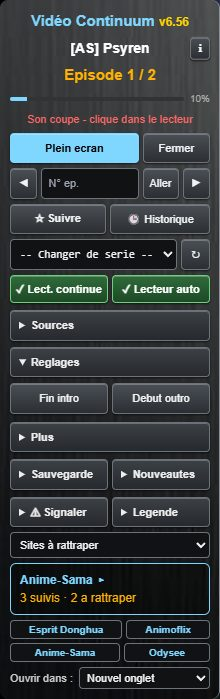
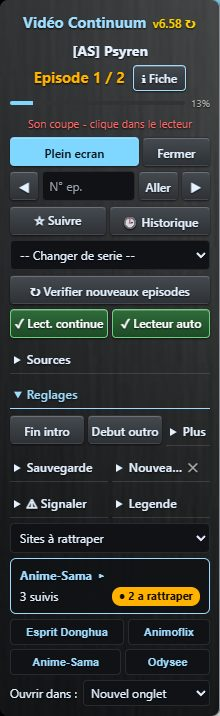
v6.58 : lisibilite (Segoe UI 12 px, titres de sections, plaques pleines, textures adoucies, verre fume, etats icone+mot, focus, cibles 24 px, panneau discret)
Corrige aussi le bouton principal sans accent dans les themes (regression 6.57).

diff --git a/esprit-donghua-suivi-progression-v6.user.js b/esprit-donghua-suivi-progression-v6.user.js
@@ -1,7 +1,7 @@
 // ==UserScript==
 // @name         Anime Tracker Continuum (v6)
 // @namespace    esprit-donghua-tracker-v6
-// @version      6.57
+// @version      6.58
 // @description  Suite de esprit-donghua-suivi-progression-v4 (v4 restait limite a esprit-donghua.xyz/Odysee) : meme principe (calque plein ecran, jamais recharge, iframe du lecteur natif pilotee par un second script injecte) mais etendu a 4 familles de sites - esprit-donghua.xyz (Odysee), animoflix.to (video.sibnet.ru), anime-sama.to (video.sibnet.ru) et odysee.com en navigation directe (playlist reconstruite via l'API publique Odysee) - avec UNE seule liste de suivi, groupee par site. Script independant de v4 (storage isole) : le fichier v4.36 reste intact sur le disque mais doit etre DESACTIVE dans Tampermonkey pour eviter un doublon de calque sur esprit-donghua.xyz.
 // @match        https://esprit-donghua.xyz/*
 // @match        https://odysee.com/*
@@ -2051,7 +2051,7 @@
         // sites ajoutes, reprises, liens AniList + preferences. Pas les caches.
         const BACKUP_SETTINGS = ['excludedSeries', 'seasonDone', 'newSeasons', 'seasonDismissed', 'introOutro', 'customSites',
             'youtubeChannelAssociations', 'youtubeMode', 'youtubeOverrides', 'resumePositions', 'aniLinks'];
-        const BACKUP_PREFS = ['autoNextEnabled', 'popupAutoOpen', 'openMode', 'panelSiteFilter2', 'aniskipShown', 'theme'];
+        const BACKUP_PREFS = ['autoNextEnabled', 'popupAutoOpen', 'openMode', 'panelSiteFilter2', 'aniskipShown', 'theme', 'panelAutoHide'];
         function collectBackupSettings() {
             const out = {};
             BACKUP_SETTINGS.concat(BACKUP_PREFS).forEach((k) => { const v = GM_getValue(k, undefined); if (v !== undefined) out[k] = v; });
@@ -2212,7 +2212,7 @@
             st.textContent = '.vc-track{position:relative;display:block;text-align:center;padding:5px 4px;border-radius:4px;font-size:11px;font-weight:bold;cursor:pointer;background:#333;color:#ddd;border:1px solid #555;}' +
                 '.vc-track.vc-small{flex:1;white-space:nowrap;}.vc-pair>.vc-track{flex:1;min-width:0;}' +
                 '.vc-trio{display:flex;flex-wrap:wrap;gap:4px;}.vc-trio>button{flex:1;min-width:0;padding:6px 2px!important;}.vc-trio>details{flex:0 0 auto;}.vc-trio>details[open]{flex-basis:100%;order:1;}' +
-                '.vc-grp{font-size:10px;font-weight:bold;letter-spacing:.08em;text-transform:uppercase;color:#8a8a99;margin-top:2px;}' +
+                '.vc-grp{font-size:10px;font-weight:bold;letter-spacing:.08em;text-transform:uppercase;color:#8a8a99;margin-top:8px;}' +
                 '.vc-ver{background:none!important;border:none!important;box-shadow:none!important;color:#ffd400!important;font:bold 12px Arial,sans-serif;cursor:pointer;padding:0;}.vc-ver:hover{text-decoration:underline;}' +
                 '.vc-th-host>*{flex-shrink:0;}details[data-sec="nouveautes"]>summary{position:relative;padding-right:22px!important;}.vc-news-x{position:absolute;right:5px;top:50%;transform:translateY(-50%);padding:0 3px;color:#aaa;cursor:pointer;}.vc-news-x:hover,.vc-news-x:focus-visible{color:#fff;}' +
                 '.vc-pair{display:flex;flex-wrap:wrap;gap:4px;}.vc-pair>details{flex:1 1 40%;min-width:0;}.vc-pair>details[open]{flex-basis:100%;order:1;}.vc-pair>button{flex:1;min-width:0;padding:6px 2px;white-space:nowrap;overflow:hidden;text-overflow:ellipsis;}' +
@@ -2228,49 +2228,72 @@
         // fonction (pas de const) : ensureVcStyles peut tourner avant cette ligne.
         function themes() { return {
             actuel: { label: 'Actuel' },
+            // v6.58 (dossier lisibilite) : plaques opaques sans liseré (bline transparent), accent texte desature (acct),
+            // dim = titres de sections (niveau 3), card = plaque des cartes de sites.
             metal: { label: 'Metallique', tex: ['vcMetal', 'metal.jpg'], v: {
-                text: '#e4f1ff', acc: '#7fd6ff', onacc: '#000', btn: 'linear-gradient(#4a4f55,#2b2f33)', bline: '#6d737a',
-                bsh: 'inset 0 1px 0 rgba(255,255,255,.25),0 1px 2px rgba(0,0,0,.6)', sec: 'linear-gradient(#3c4146,#26292d)', field: '#101214',
-                card: 'rgba(0,0,0,.35)', on: 'linear-gradient(#2f6b3a,#1d4a26)', onl: '#6fcf7f', edge: '#8a9097',
+                text: '#e4f1ff', dim: '#a9b8c6', acc: '#7fd6ff', acct: '#9fdcff', onacc: '#06121a', btn: 'linear-gradient(#454a50,#2e3236)', bline: 'transparent',
+                bsh: 'inset 0 1px 0 rgba(255,255,255,.22),0 1px 2px rgba(0,0,0,.6)', field: '#101216', card: 'rgba(16,18,20,.94)',
+                on: 'linear-gradient(#2f6b3a,#1d4a26)', onl: '#6fcf7f', edge: '#8a9097',
                 bg: 'linear-gradient(90deg,rgba(15,17,19,.55),rgba(15,17,19,.35)),var(--vc-tex,none) center/cover,#2a2d30' } },
             carbone: { label: 'Fibre de carbone', v: {
-                text: '#f6e4e2', acc: '#b71c1c', acct: '#ef5350', onacc: '#fff', btn: '#1b1d20', bline: '#2c2f33', bsh: 'inset 0 1px 0 rgba(255,255,255,.06)',
-                sec: '#232529', field: '#0a0a0b', card: 'rgba(183,28,28,.10)', on: '#3a1412', onl: '#c62828', edge: '#000',
+                text: '#f6e4e2', dim: '#b9a9a7', acc: '#b71c1c', acct: '#ef7a70', onacc: '#fff', btn: '#1d1f23', bline: 'transparent', bsh: 'inset 0 1px 0 rgba(255,255,255,.06)',
+                field: '#101114', card: 'rgba(22,22,24,.94)', on: '#3a1412', onl: '#c62828', edge: '#000',
                 bg: 'linear-gradient(27deg,#151515 5px,transparent 5px) 0 5px/20px 20px,linear-gradient(207deg,#151515 5px,transparent 5px) 10px 0/20px 20px,' +
                     'linear-gradient(27deg,#222 5px,transparent 5px) 0 10px/20px 20px,linear-gradient(207deg,#222 5px,transparent 5px) 10px 5px/20px 20px,' +
                     'linear-gradient(90deg,#1b1b1b 10px,transparent 10px) 0 0/20px 20px,linear-gradient(#1d1d1d 25%,#1a1a1a 25%,#1a1a1a 50%,transparent 50%,transparent 75%,#242424 75%,#242424) 0 0/20px 20px,#131313' } },
+            // verre fume : 3,0:1 -> au-dessus de 4,5:1 sur scene claire (teinte 30 % -> 62 %)
             verre: { label: 'Verre trempe', glass: true, v: {
-                text: '#fff', acc: '#7ee0ff', onacc: '#000', btn: 'rgba(255,255,255,.10)', bline: 'rgba(255,255,255,.22)', bsh: 'inset 0 1px 0 rgba(255,255,255,.25)',
-                sec: 'rgba(255,255,255,.14)', field: 'rgba(0,0,0,.35)', card: 'rgba(255,255,255,.08)', on: 'rgba(76,175,80,.35)', onl: 'rgba(140,230,150,.8)',
-                edge: 'rgba(255,255,255,.35)', bg: 'linear-gradient(160deg,rgba(255,255,255,.16),rgba(255,255,255,.04) 40%,rgba(255,255,255,.10)),rgba(20,30,40,.30)' } },
+                text: '#fff', dim: '#c9d6e2', acc: '#7ee0ff', acct: '#9fe6ff', onacc: '#06121a', btn: 'rgba(255,255,255,.12)', bline: 'transparent', bsh: 'inset 0 1px 0 rgba(255,255,255,.18)',
+                field: 'rgba(0,0,0,.45)', card: 'rgba(8,12,18,.55)', on: 'rgba(76,175,80,.45)', onl: 'rgba(140,230,150,.85)',
+                edge: 'rgba(255,255,255,.3)', bg: 'linear-gradient(160deg,rgba(255,255,255,.08),rgba(255,255,255,.02) 40%,rgba(255,255,255,.05)),rgba(12,18,26,.62)' } },
             'pierre-noire': { label: 'Pierre noire', tex: ['vcPierreNoire', 'pierre-noire.jpg'], v: {
-                text: '#f5e7c6', acc: '#d6a849', onacc: '#000', btn: 'rgba(28,26,24,.88)', bline: 'rgba(214,168,73,.35)', bsh: 'inset 0 1px 0 rgba(255,255,255,.05)',
-                sec: 'rgba(38,34,30,.9)', field: 'rgba(0,0,0,.6)', card: 'rgba(214,168,73,.08)', on: 'rgba(214,168,73,.18)', onl: '#d6a849', edge: '#3a332a',
-                bg: 'linear-gradient(rgba(10,10,10,.45),rgba(10,10,10,.45)),var(--vc-tex,none) center/cover,#1a1918' } },
+                text: '#f5e7c6', dim: '#c9b892', acc: '#d6a849', acct: '#ddb86a', onacc: '#140f05', btn: 'rgba(30,28,25,.95)', bline: 'transparent', bsh: 'inset 0 1px 0 rgba(255,255,255,.05)',
+                field: 'rgba(12,11,10,.95)', card: 'rgba(24,22,20,.94)', on: 'rgba(214,168,73,.22)', onl: '#d6a849', edge: '#3a332a',
+                bg: 'linear-gradient(rgba(10,10,10,.4),rgba(10,10,10,.4)),var(--vc-tex,none) center/cover,#1a1918' } },
             'pierre-bleue': { label: 'Pierre bleue', tex: ['vcPierreBleue', 'pierre-bleue.jpg'], v: {
-                text: '#d6f5fb', acc: '#3cc8e0', onacc: '#000', btn: 'rgba(14,30,38,.85)', bline: 'rgba(60,200,224,.35)', bsh: 'inset 0 1px 0 rgba(255,255,255,.06)',
-                sec: 'rgba(20,42,52,.9)', field: 'rgba(0,8,12,.65)', card: 'rgba(0,0,0,.6)', on: 'rgba(60,200,224,.18)', onl: '#3cc8e0', edge: '#1d3a46',
-                bg: 'linear-gradient(rgba(5,14,18,.6),rgba(5,14,18,.6)),var(--vc-tex,none) center/cover,#0d1a20' } },
+                text: '#d6f5fb', dim: '#9fc6cf', acc: '#3cc8e0', acct: '#7fd5e2', onacc: '#04161b', btn: 'rgba(14,30,38,.95)', bline: 'transparent', bsh: 'inset 0 1px 0 rgba(255,255,255,.06)',
+                field: 'rgba(6,14,18,.95)', card: 'rgba(6,14,18,.94)', on: 'rgba(60,200,224,.22)', onl: '#3cc8e0', edge: '#1d3a46',
+                bg: 'linear-gradient(rgba(5,14,18,.45),rgba(5,14,18,.45)),var(--vc-tex,none) center/cover,#0d1a20' } },
         }; }
         function themeCss() {
-            const T = '.vc-thm';
-            return Object.keys(themes()).filter((k) => themes()[k].v).map((k) => '.vc-th-' + k + '{' +
+            const H = '.vc-th-host', T = '.vc-thm';
+            // Regles communes a tous les themes, Actuel compris (pistes 01, 05, 08, 09, 10).
+            const common =
+                H + '{font-family:"Segoe UI",system-ui,Arial,sans-serif!important;}' +
+                H + ' button,' + H + ' summary,' + H + ' select,' + H + ' input,' + H + ' textarea,' + H + ' label{font-family:inherit!important;font-size:12px!important;}' +
+                H + ' button,' + H + ' summary,' + H + ' .vc-track{font-weight:600!important;}' +
+                H + ' button:not(.vc-ver):not(#ed-info-btn):not(#ep-info-btn),' + H + ' .vc-track{height:29px;box-sizing:border-box;}' +
+                H + ' .vc-track{line-height:17px;}' +
+                H + ' summary{background:transparent!important;border:none!important;border-bottom:1px solid rgba(255,255,255,.14)!important;border-radius:0!important;box-shadow:none!important;' +
+                    'letter-spacing:.02em;color:#a3a9b5!important;padding:6px 4px!important;line-height:16px;height:29px;box-sizing:border-box;}' +
+                H + ' details[open]>summary{color:#fff!important;border-bottom-color:rgba(255,255,255,.4)!important;}' +
+                H + ' select,' + H + ' input[type=number],' + H + ' textarea{background:#101216!important;color:#ececec!important;border:1px solid #2a2e36!important;}' +
+                H + ' button[style*="color:#fff"]:not(.vc-ver){color:#ececec!important;}' +
+                H + ' .vc-open-link{font-size:11px!important;padding:6px 4px!important;}' +
+                '#ed-info-btn,#ep-info-btn{min-height:24px;}.vc-ver{padding:5px 2px!important;}.vc-news-x{padding:5px 7px!important;}' +
+                H + ' :focus-visible,' + H + ' .vc-track:has(input:focus-visible){outline:2px solid #fff!important;outline-offset:1px!important;box-shadow:0 0 0 4px rgba(0,0,0,.85)!important;}' +
+                '.vc-th-actuel [style*="color:#03d0fc"]{color:#5fd3ec!important;}' +
+                '#ed-topbar{transition:opacity .4s;}#ed-topbar.vc-faded:not(:hover):not(:focus-within){opacity:.12;}' +
+                '@media (prefers-reduced-motion:reduce){#ed-topbar{transition:none;}}';
+            return common + Object.keys(themes()).filter((k) => themes()[k].v).map((k) => '.vc-th-' + k + '{' +
                 Object.keys(themes()[k].v).map((n) => '--vc-' + n + ':' + themes()[k].v[n] + ';').join('') + '}').join('') +
                 T + '{background:var(--vc-bg)!important;color:var(--vc-text)!important;box-shadow:inset -1px 0 0 var(--vc-edge),0 2px 8px rgba(0,0,0,.5)!important;}' +
-                '.vc-th-verre{backdrop-filter:blur(14px) saturate(1.3);-webkit-backdrop-filter:blur(14px) saturate(1.3);}' +
+                '.vc-th-verre{backdrop-filter:blur(14px) saturate(1.2);-webkit-backdrop-filter:blur(14px) saturate(1.2);}' +
+                '@media (prefers-reduced-transparency:reduce){.vc-th-verre{background:#141b24!important;backdrop-filter:none;-webkit-backdrop-filter:none;}}' +
                 T + ' button:not([id$="delete-btn"]):not(.vc-ver){background:var(--vc-btn)!important;color:var(--vc-text)!important;border:1px solid var(--vc-bline)!important;box-shadow:var(--vc-bsh)!important;}' +
-                T + ' button[style*="background:#03d0fc"]{background:var(--vc-acc)!important;color:var(--vc-onacc)!important;border-color:transparent!important;}' +
-                T + ' summary{background:var(--vc-sec)!important;border:1px solid var(--vc-bline);box-shadow:var(--vc-bsh);}' +
-                T + ' select,' + T + ' input[type=number],' + T + ' textarea{background:var(--vc-field)!important;color:var(--vc-text)!important;border:1px solid var(--vc-bline)!important;}' +
+                T + ' button[style*="background:#03d0fc"][style]:not(.vc-ver){background:var(--vc-acc)!important;color:var(--vc-onacc)!important;border-color:transparent!important;}' +
+                T + ' #ed-info-btn,' + T + ' #ep-info-btn{border-color:var(--vc-acct,var(--vc-acc))!important;}' +
+                T + ' select,' + T + ' input[type=number],' + T + ' textarea{background:var(--vc-field)!important;color:var(--vc-text)!important;border:1px solid rgba(255,255,255,.10)!important;}' +
                 T + ' .vc-track{background:var(--vc-btn)!important;color:var(--vc-text)!important;border-color:var(--vc-bline)!important;box-shadow:var(--vc-bsh);}' +
                 T + ' .vc-track:has(input:checked){background:var(--vc-on)!important;border-color:var(--vc-onl)!important;color:#fff!important;}' +
                 T + ' .ep-summary-line{background:var(--vc-card)!important;border-color:var(--vc-acct,var(--vc-acc))!important;}' +
                 T + ' [style*="color:#03d0fc"]{color:var(--vc-acct,var(--vc-acc))!important;}' +
                 T + ' [style*="background:#03d0fc"]:not(button){background:var(--vc-acc)!important;}' +
-                T + ' .vc-open-link{background:var(--vc-field)!important;border-color:var(--vc-bline)!important;}' +
-                T + ' summary,' + T + ' label,' + T + ' [style*="color:#fff"],' + T + ' [style*="color:#eee"],' + T + ' [style*="color:#ccc"]{color:var(--vc-text)!important;}' +
-                T + ',' + T + ' *{text-shadow:0 1px 2px rgba(0,0,0,.85);}' + T + ' button[style*="background:#03d0fc"]{text-shadow:none;}' +
-                T + ' button,' + T + ' select,' + T + ' label,' + T + ' .vc-grp{font-weight:bold;}' +
+                T + ' .vc-open-link{background:var(--vc-field)!important;border-color:rgba(255,255,255,.10)!important;}' +
+                T + ' label,' + T + ' [style*="color:#fff"],' + T + ' [style*="color:#eee"],' + T + ' [style*="color:#ccc"]{color:var(--vc-text)!important;}' +
+                T + ' summary{color:var(--vc-dim)!important;border-bottom-color:rgba(255,255,255,.12)!important;}' +
+                T + ' details[open]>summary{color:var(--vc-acct,var(--vc-acc))!important;border-bottom-color:var(--vc-acct,var(--vc-acc))!important;}' +
+                T + ',' + T + ' *{text-shadow:0 1px 2px rgba(0,0,0,.85);}' + T + ' button[style*="background:#03d0fc"],' + T + ' [style*="color:#1a1000"]{text-shadow:none;}' +
                 T + ' .vc-grp{color:var(--vc-acct,var(--vc-acc))!important;}' +
                 T + ' button.vc-ver{color:#ffd400!important;}';
         }
@@ -2370,6 +2393,7 @@
         // ---- Nouveautes (v6.18) : encart repliable, ouvert d'office tant
         // que la version installee n'a pas ete "vue" (ouverture de l'encart).
         const CHANGELOG = [
+            ['6.58', ['Lisibilite (12 pistes) : police Segoe UI 12 px demi-gras ; boutons sur plaques pleines et textures adoucies ; verre trempe fume (texte lisible sur scene claire) ; titres de sections en simples intitules ; couleurs d\'accent adoucies ; plus de noir ni de blanc purs.', 'Cartes des sites : etat avec icone et mot (● 2 a rattraper, ✓ a jour). Zones de clic d\'au moins 24 px, contour clavier visible sur tous les themes.', 'Option "Panneau discret en lecture" (Reglages > Plus > Affichage) : le panneau s\'efface apres 4 s sans souris et revient au survol.']],
             ['6.57', ['Retours de recette : nom de la serie sur 2 lignes si besoin, bouton "ℹ Fiche" sur la ligne de l\'episode, numero de version cliquable pour verifier les mises a jour.', '"↻ Verifier les nouveaux episodes" de nouveau sur une ligne entiere ; Reglages : Fin intro | Debut outro | Plus, et Plus range en 3 groupes (Intro / outro, Affichage, Page).', 'Croix ✕ sur Nouveautes pour la masquer jusqu\'a la prochaine version.', 'Themes plus lisibles (texte teinte, semi-gras, ombre) ; panneau agrandi automatiquement sur grand ecran (1440p, 4K).']],
             ['6.56', ['Themes du panneau (Reglages > Plus > Theme) : Metallique, Fibre de carbone, Verre trempe, Pierre noire, Pierre bleue, ou Actuel. Une couleur d\'accent par theme ; le lecteur et le panneau du site suivent le meme theme.']],
             ['6.55', ['Reglages ouvert par defaut (Fin intro / Debut outro toujours visibles).', 'Afficher l\'etat AniSkip deplace dans Reglages > Plus, en bouton comme les autres ; Plus aligne sur les autres sections.']],
@@ -2566,7 +2590,7 @@
                 '<div class="vc-pair">' + trackButtonHtml('ed-track-cb', false) +
                 '<button id="ed-history-btn" style="' + BTN_STYLE + '">&#128338; Historique</button></div>' +
                 '<select id="ed-series-select" aria-label="Changer de série" style="' + SELECT + 'font-family:Consolas,monospace;"><option value="">-- Changer de serie --</option></select>' +
-                '<button id="ed-check-new-btn" style="' + BTN_STYLE + '">&#8635; Verifier les nouveaux episodes</button>' +
+                '<button id="ed-check-new-btn" style="' + BTN_STYLE + '">&#8635; Verifier nouveaux episodes</button>' +
                 toggleButtonsHtml('ed-', false, false) +
                 '<div class="vc-pair">' + collapsibleSection('reglages', 'Reglages',
                     '<div class="vc-trio"><button id="ed-set-intro-btn" style="' + B + '">Fin intro</button><button id="ed-set-outro-btn" style="' + B + '">Debut outro</button>' +
@@ -2577,6 +2601,7 @@
                         groupLabel('Affichage') +
                         themeSelectHtml('ed-theme-select') +
                         '<label class="vc-track"><input type="checkbox" id="ed-aniskip-cb"' + (isAniSkipShown() ? ' checked' : '') + '><span class="off">Afficher l\'etat AniSkip</span><span class="on">&#10003; Afficher l\'etat AniSkip</span></label>' +
+                        '<label class="vc-track" title="4 s sans bouger la souris : le panneau devient presque transparent ; il revient au survol ou au moindre mouvement"><input type="checkbox" id="ed-autohide-cb"' + (GM_getValue('panelAutoHide', false) ? ' checked' : '') + '><span class="off">Panneau discret en lecture</span><span class="on">&#10003; Panneau discret en lecture</span></label>' +
                         groupLabel('Page') +
                         '<div class="vc-pair"><button id="ed-reload-btn" title="Recharger la page" style="' + B + '">&#8635; Recharger</button>' +
                         '<button id="ed-delete-btn" style="background:#5a1f1f;color:#fff;border:none;padding:6px;border-radius:4px;cursor:pointer;font-size:11px;flex:1;" title="Supprimer la serie selectionnee de la progression">Supprimer</button></div>', false, true) + '</div>', true) +
@@ -2597,6 +2622,9 @@
                 '<div id="ed-tracking-summary" style="display:flex;flex-direction:column;gap:4px;"></div>' +
                 siteLinksHtml() + openModeSelectHtml();
             overlay.appendChild(topbar);
+            topbar.id = 'ed-topbar';
+            overlay.addEventListener('mousemove', panelWake);
+            panelWake();
 
             toggleBtn.addEventListener('click', () => {
                 const hidden = topbar.style.display === 'none';
@@ -2651,6 +2679,7 @@
             topbar.querySelector('#ed-set-outroend-btn').addEventListener('click', () => promptIntroOutro('outroEnd'));
             topbar.querySelector('#ed-settings-btn').addEventListener('click', openSettingsModal);
             bindThemeSelect(topbar, 'ed-theme-select');
+            topbar.querySelector('#ed-autohide-cb').addEventListener('change', (ev) => { GM_setValue('panelAutoHide', ev.target.checked); panelWake(); });
             topbar.querySelector('#ed-info-btn').addEventListener('click', () => { if (currentEpisode) openSeriesInfo(currentEpisode); });
             const edUpd = topbar.querySelector('#ed-check-update-btn');
             if (edUpd) edUpd.addEventListener('click', openScriptUpdatePage);
@@ -2679,7 +2708,7 @@
             topbar.querySelector('#ed-check-new-btn').addEventListener('click', (ev) => {
                 const btn = ev.currentTarget;
                 btn.disabled = true; btn.textContent = 'Recherche...';
-                checkForNewEpisodes().then(() => { btn.disabled = false; btn.textContent = '↻ Verifier les nouveaux episodes'; });
+                checkForNewEpisodes().then(() => { btn.disabled = false; btn.textContent = '↻ Verifier nouveaux episodes'; });
             });
 
             seriesSelectEl.addEventListener('change', () => { if (seriesSelectEl.value) location.href = seriesSelectEl.value; });
@@ -2746,6 +2775,16 @@
         }
 
         let navHideTimer = null;
+        // Panneau discret (v6.58) : 4 s sans souris -> 12 % d'opacite ; revient au survol, au focus,
+        // ou a un mouvement dans le lecteur (message 'activity' de l'iframe).
+        let panelFadeTimer = null;
+        function panelWake() {
+            const tb = document.getElementById('ed-topbar');
+            if (!tb) return;
+            tb.classList.remove('vc-faded');
+            clearTimeout(panelFadeTimer);
+            if (GM_getValue('panelAutoHide', false)) panelFadeTimer = setTimeout(() => tb.classList.add('vc-faded'), 4000);
+        }
         function showNavButtons() {
             if (!overlayEls || !currentEpisode) return;
             const show = (el, on) => { el.style.opacity = on ? '1' : '0'; el.style.pointerEvents = on ? 'auto' : 'none'; };
@@ -2956,7 +2995,7 @@
                 outroSignalSent = true;
                 triggerNextEpisode('fin reelle de la video');
             }
-            if (type === 'activity') showNavButtons();
+            if (type === 'activity') { showNavButtons(); panelWake(); }
             if (type === 'mute-state' && overlayEls.muteIndicatorEl) overlayEls.muteIndicatorEl.style.display = event.data.muted ? 'block' : 'none';
             if (type === 'load-status') {
                 if (event.data.stage === 'echec') tryNextPlayer();
@@ -3877,11 +3916,13 @@
                 // tres en retard (ex. 139 ep.) noyait le total. Detail par
                 // anime dans la fenetre de suivi.
                 const nbBehind = entries.filter((e) => isBehind(e.key)).length;
-                const newText = !lastNewEpisodesCheckAt ? 'verification...' : (nbBehind ? nbBehind + ' a rattraper' : 'a jour');
-                const color = nbBehind > 0 ? '#ffb300' : '#4caf50';
-                return '<div class="ep-summary-line" role="button" tabindex="0" data-site="' + s.id + '" title="Ouvrir le suivi detaille" style="cursor:pointer;background:rgba(3,208,252,.12);border:1px solid #03d0fc;border-radius:6px;padding:7px 9px;font-size:12px;">' +
+                // Etat = icone + mot (jamais la couleur seule, WCAG 1.4.1) ; seul "a rattraper" reste colore.
+                const chip = !lastNewEpisodesCheckAt ? '<span style="font-size:11px;color:#aaa;">verification...</span>'
+                    : nbBehind ? '<span style="font-size:11px;font-weight:bold;background:#ffb300;color:#1a1000;border-radius:9px;padding:1px 7px;white-space:nowrap;">&#9679; ' + nbBehind + ' a rattraper</span>'
+                    : '<span style="font-size:11px;color:#9fb4c8;border:1px solid #3a4652;border-radius:9px;padding:0 7px;white-space:nowrap;">&#10003; a jour</span>';
+                return '<div class="ep-summary-line" role="button" tabindex="0" data-site="' + s.id + '" title="Ouvrir le suivi detaille" style="cursor:pointer;background:rgba(255,255,255,.04);border:1px solid rgba(3,208,252,.45);border-radius:6px;padding:7px 9px;font-size:12px;display:flex;flex-direction:column;gap:3px;">' +
                     '<div style="font-weight:bold;color:#03d0fc;">' + s.label + ' &#9656;</div>' +
-                    '<div style="color:' + color + ';">' + entries.length + ' suivi' + (entries.length > 1 ? 's' : '') + ' &middot; ' + newText + '</div></div>';
+                    '<div style="display:flex;justify-content:space-between;align-items:center;gap:6px;"><span style="color:#ccc;">' + entries.length + ' suivi' + (entries.length > 1 ? 's' : '') + '</span>' + chip + '</div></div>';
             }).join('');
             return (lines || (onlyBehind ? '<div style="font-size:12px;color:#4caf50;text-align:center;">Tout est à jour</div>' : '')) + renderDuplicatesHtml();
         }
@@ -4234,7 +4275,7 @@
                 html += '</select>';
             }
 
-            html += '<button id="ep-check-new" style="' + BTN_STYLE + '">&#8635; Verifier les nouveaux episodes</button>';
+            html += '<button id="ep-check-new" style="' + BTN_STYLE + '">&#8635; Verifier nouveaux episodes</button>';
             html += toggleButtonsHtml('ep-', isAutoNextEnabled(), isAutoOpenEnabled());
 
             html += '<div class="vc-pair">' + collapsibleSection('reglages', 'Reglages',
@@ -4297,7 +4338,7 @@
             const checkNewBtn = panel.querySelector('#ep-check-new');
             if (checkNewBtn) checkNewBtn.addEventListener('click', () => {
                 checkNewBtn.disabled = true; checkNewBtn.textContent = 'Recherche...';
-                checkForNewEpisodes().then(() => { checkNewBtn.disabled = false; checkNewBtn.textContent = '↻ Verifier les nouveaux episodes'; });
+                checkForNewEpisodes().then(() => { checkNewBtn.disabled = false; checkNewBtn.textContent = '↻ Verifier nouveaux episodes'; });
             });
 
             const exportBtn = panel.querySelector('#ep-export-panel');

diff --git a/tests/recette.html b/tests/recette.html
@@ -60,7 +60,7 @@ textarea{width:100%;min-height:38px;background:var(--ink);color:var(--text);bord
 <body>
 <div class="wrap">
 <header>
-  <h1>Recette <b>Vidéo Continuum</b> v6.51 → v6.57</h1>
+  <h1>Recette <b>Vidéo Continuum</b> v6.51 → v6.58</h1>
   <p class="intro">Tout ce qui a changé aujourd'hui et qui n'a pas encore été vérifié en vrai chez toi : le clavier (v6.51), le panneau compact (v6.52 à v6.55) et les thèmes (v6.56). Chaque fiche dit pourquoi on teste, quoi faire, ce que tu dois voir, et quoi noter si ça rate.</p>
   <div class="how">
     <div><b>Comment faire.</b> Garde cette page dans un onglet, anime-sama (ou un autre site) dans un autre. Pour chaque fiche : fais les étapes, puis clique <b>OK</b>, <b>KO</b> ou <b>Pas testé</b>. Si c'est KO, écris en deux mots ce que tu as vu à la place.</div>
@@ -269,6 +269,48 @@ const SECTIONS = [
       exp: "Panneau agrandi (environ ×1,25 en 1440p) et toujours entièrement visible ; identique en 1080p.",
       fail: "Note la résolution, le zoom Windows et ce qui dépasse." },
   ]},
+  { t: "6. Lisibilité", v: "v6.58", n: "Les 12 pistes du dossier lisibilité. Passe par chaque thème.", tests: [
+    { id: "58-police", v: "6.58", h: "Police Segoe UI 12 px",
+      why: "Arial 11 px en gras empâtait les lettres.",
+      steps: ["Regarde les boutons et les titres de sections."],
+      exp: "Texte un peu plus grand et plus fin, tout à la même hauteur (29 px), rien sur deux lignes.",
+      fail: "Note le bouton coupé ou plus haut que les autres." },
+    { id: "58-sections", v: "6.58", h: "Titres de sections en simples intitulés",
+      why: "Trois niveaux : action principale pleine, boutons, titres de sections sans fond.",
+      steps: ["Ouvre et ferme Sources, Réglages, Plus, Sauvegarde."],
+      exp: "Les titres n'ont plus de fond : une flèche, le mot, un filet dessous. Ouverts, ils prennent la couleur du thème.",
+      fail: "Dis si on ne voit plus que c'est cliquable." },
+    { id: "58-plaques", v: "6.58", h: "Textures douces, plaques pleines",
+      why: "Le grain de la pierre passait sous les lettres.",
+      steps: ["Thèmes Pierre noire, Pierre bleue, Métallique."],
+      exp: "Texture visible mais floutée, boutons sur plaques pleines sans liseré ; texte net.",
+      fail: "Note le thème encore gênant." },
+    { id: "58-verre", v: "6.58", h: "Verre fumé",
+      why: "Le verre était illisible sur une scène claire.",
+      steps: ["Thème Verre trempé, sur une scène lumineuse."],
+      exp: "On devine la vidéo derrière, plus sombre qu'avant ; texte lisible même sur un plan clair.",
+      fail: "Note la scène où ça ne se lit pas." },
+    { id: "58-etats", v: "6.58", h: "Cartes des sites : icône + mot",
+      why: "Orange et vert se confondaient.",
+      steps: ["Regarde les cartes des sites en bas."],
+      exp: "« N suivis » à gauche, pastille « ● 2 à rattraper » (orange) ou « ✓ à jour » (gris-bleu) à droite.",
+      fail: "Note ce qui s'affiche." },
+    { id: "58-focus", v: "6.58", h: "Contour clavier",
+      why: "Le contour cyan disparaissait sur certains thèmes.",
+      steps: ["Avec Tab, parcours quelques boutons sur Verre trempé et Pierre bleue."],
+      exp: "Contour blanc avec halo sombre, visible partout.",
+      fail: "Note le thème où il manque." },
+    { id: "58-discret", v: "6.58", h: "Panneau discret en lecture",
+      why: "Le panneau captait l'œil pendant tout l'épisode.",
+      steps: ["Réglages → Plus → <span class=ui>Panneau discret en lecture</span>.", "Ne touche plus à la souris pendant 5 s.", "Bouge la souris sur la vidéo, puis sur le panneau."],
+      exp: "Le panneau devient presque transparent après 4 s, revient dès que la souris bouge sur la vidéo ou survole le panneau.",
+      fail: "Note s'il ne revient pas en bougeant sur la vidéo (dis sur quel site)." },
+    { id: "58-cibles", v: "6.58", h: "Petits boutons plus faciles à viser",
+      why: "✕, version et liens des sites faisaient 14-18 px.",
+      steps: ["Clique la ✕ de Nouveautés, le « v6.58 ↻ » et un lien de site en visant le bord."],
+      exp: "Les clics passent sans viser au pixel près.",
+      fail: "Note celui qui reste difficile." },
+  ]},
   { t: "4. Rien de cassé", n: "Les fonctions de base, à vérifier une fois en passant.", tests: [
     { id: "nr-suite", v: "—", h: "Lecture continue",
       why: "La fonction principale ; les boutons ont bougé.",
@@ -334,7 +376,7 @@ counts();
 const msg = document.getElementById("msg");
 document.getElementById("copy").addEventListener("click", async () => {
   const L = { ok: "OK", ko: "KO", skip: "pas teste" };
-  const lines = ["Recette Video Continuum v6.57 - " + new Date().toLocaleString("fr-FR")];
+  const lines = ["Recette Video Continuum v6.58 - " + new Date().toLocaleString("fr-FR")];
   SECTIONS.forEach((s) => {
     lines.push("", "== " + s.t);
     s.tests.forEach((t) => { const r = state[t.id] || {}; lines.push("- [" + (L[r.st] || "non fait") + "] " + t.h + (r.note ? " : " + r.note.replace(/\s+/g, " ") : "")); });

diff --git a/HISTORIQUE.md b/HISTORIQUE.md
@@ -1015,3 +1015,18 @@ de la page ouverte, pas forcément à l'endroit où on s'était arrêté sur You
 - Teste Playwright (anime-sama Psyren) : lecteur et panneau du site, Actuel / Metallique / Pierre noire, Plus ouvert, nom long sur 2 lignes,
   ✕ Nouveautes (disparait, GM ecrit), 2560x1310 -> zoom 1,25 et panneau dans l'ecran. Pas teste : 4K reel, zoom Windows.
 - tests/recette.html : test "Echap une fenetre a la fois" retire (impossible d'ouvrir 2 fenetres), section 5 (v6.57) ajoutee.
+
+## v6.58 (2026-10-13) - lisibilite (design/lisibilite.html, 12 pistes retenues)
+- Mesures (scratchpad contrast.py) : textures 7,4-10,8:1 (gene = grain fin, pas contraste), verre 2,6-3,0:1 (echec), orange/vert 1,5:1.
+- themeCss() reecrit : regles communes a .vc-th-host (Actuel compris) : Segoe UI 12 px 600 ; summary = titre niveau 3 (sans fond,
+  filet, couleur dim / accent ouvert) ; boutons et .vc-track height 29 px ; champs #101216/#ececec ; cibles >= 24 px (.vc-ver,
+  .vc-news-x, liens de sites, Fiche) ; focus = contour blanc + halo sombre ; Actuel : texte cyan adouci #5fd3ec.
+  Themes : bline transparent (plus de liseres), plaques .95, acct desature, dim, card opaque ; verre fume .62 +
+  prefers-reduced-transparency ; textures regenerees floutees (1,3 px) et contraste .72 (8-29 Ko).
+- Cartes des sites : "N suivis" + pastille icone+mot (● N a rattraper orange / ✓ a jour gris-bleu).
+- Panneau discret (GM panelAutoHide, BACKUP_PREFS) : #ed-topbar.vc-faded apres 4 s, reveil par mousemove du calque ou
+  message 'activity' de l'iframe ; :hover / :focus-within le garde visible.
+- PIEGE (aussi present en 6.57, corrige ici) : la regle generale `button:not(...):not(.vc-ver)` etait plus specifique que celle
+  du bouton principal -> Plein ecran perdait l'accent dans les themes. Regle primaire = `button[style*=...][style]:not(.vc-ver)`.
+- Teste Playwright (anime-sama Psyren, 1920x950) : 6 themes, tous les boutons/titres a 29 px, Plein ecran en accent, panneau
+  sans defilement, panneau discret (vc-faded apres 4,4 s), panneau du site. Pas teste : reveil reel via l'iframe sibnet.
